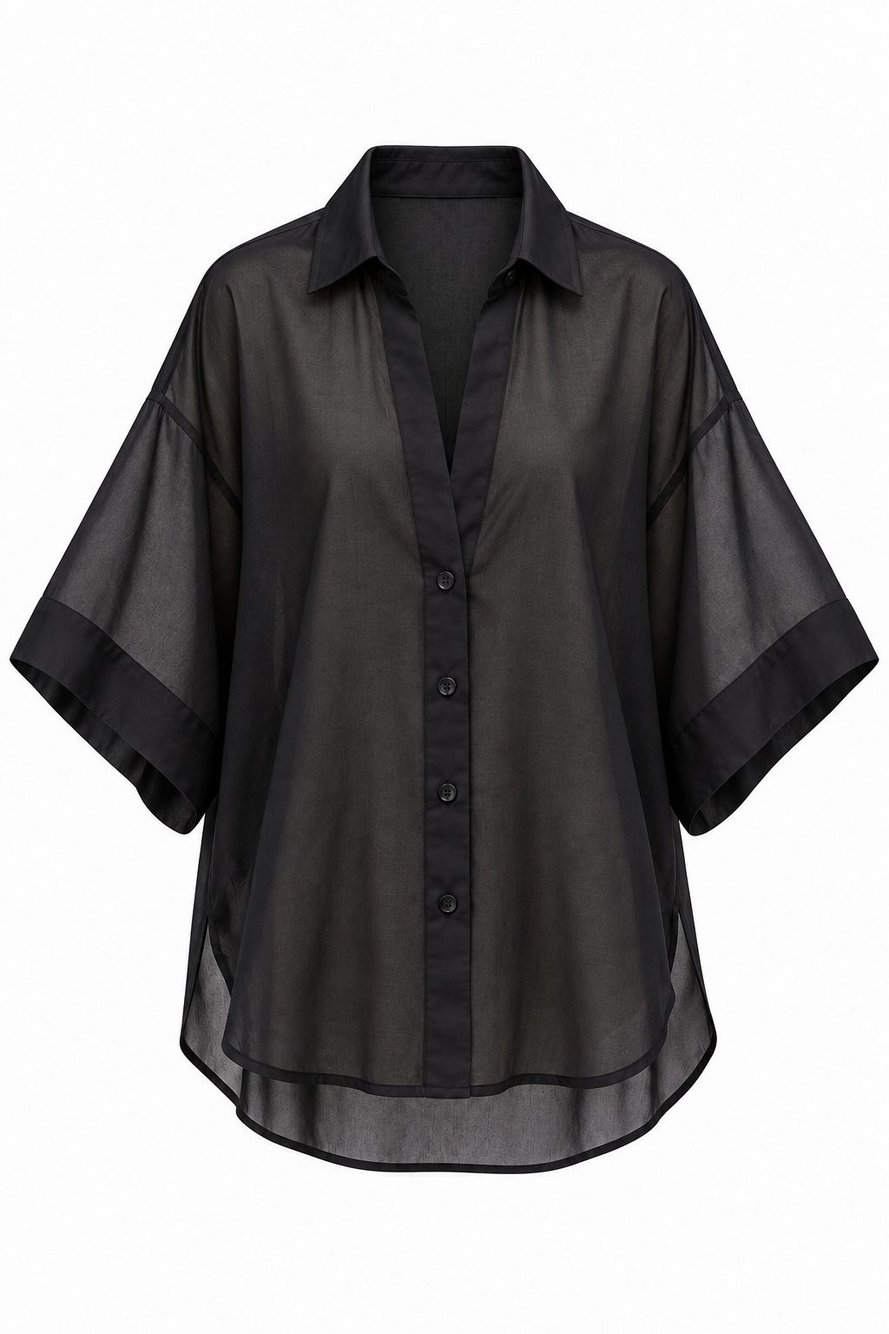
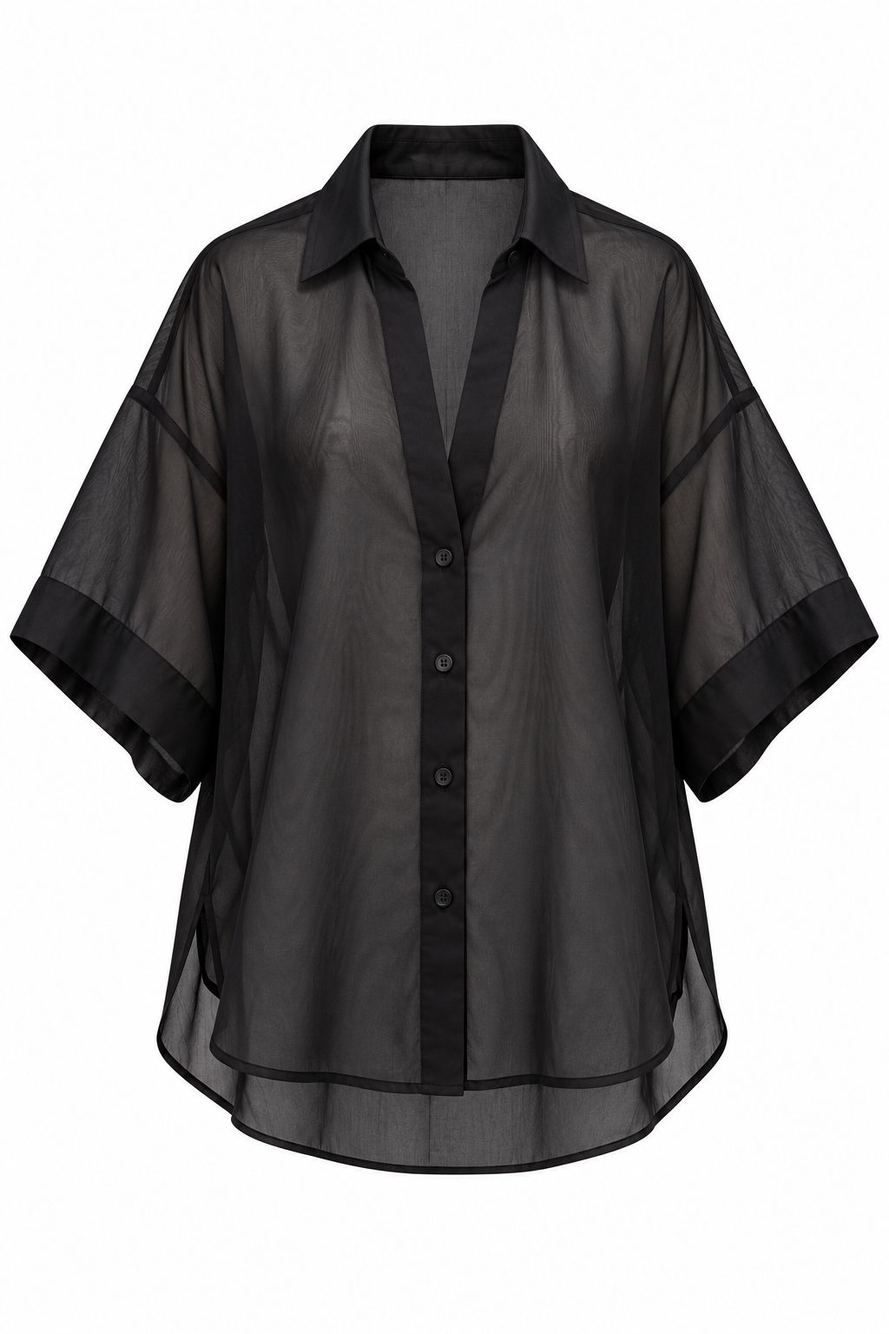
Fix Toma Shirt/Pants color swatches to use flat-lay photos
The burgundy and black swatches for Toma Shirt and Toma Pants were
reusing the Toma Suit's on-model combo photos (tm3/tm4) instead of
showing the actual garment. Add dedicated flat-lay photos for each
piece instead.

New uploads are saved straight to compressed JPEG to keep the images
folder lean going forward.

Claude-Session: https://claude.ai/code/session_01MLsA5webmyPusJuUBWrQT8

diff --git a/index.html b/index.html
@@ -426,7 +426,7 @@ footer{padding:clamp(40px,6vw,72px) clamp(16px,4vw,56px) 28px}
 @media (max-width:860px){.meas{grid-template-columns:1fr;gap:26px}.meas-figs{position:static}.meas-figs svg{max-height:62vh}}
 </style>
 <style id="assets">
-:root{--i-hero:url(images/hero2.jpg);--i-hero3:url(images/hero3.jpg);--i-hero4:url(images/hero4.jpg);--i-hero5:url(images/hero5.jpg);--i-hero6:url(images/hero6.jpg);--i-hero7:url(images/hero7.jpg);--i-hero8:url(images/hero8.jpg);--i-hero9:url(images/hero9.jpg);--i-hero10:url(images/hero10.jpg);--i-hero11:url(images/hero11.jpg);--i-hero12:url(images/hero12.jpg);--i-hero13:url(images/hero13.jpg);--i-jo1:url(images/jo1.jpg);--i-jo2:url(images/jo2.jpg);--i-jo3:url(images/jo3.jpg);--i-jo4:url(images/jo4.jpg);--i-jo5:url(images/jo5.jpg);--i-jo6:url(images/jo6.jpg);--i-jo7:url(images/jo7.jpg);--i-jo8:url(images/jo8.jpg);--i-jo9:url(images/jo9.jpg);--i-jo10:url(images/jo10.jpg);--i-jo11:url(images/jo11.jpg);--i-jo12:url(images/jo12.jpg);--i-jo13:url(images/jo13.jpg);--i-jo14:url(images/jo14.jpg);--i-jo15:url(images/jo15.jpg);--i-jo16:url(images/jo16.jpg);--i-jo17:url(images/jo17.jpg);--i-jo18:url(images/jo18.jpg);--i-jo19:url(images/jo19.jpg);--i-jo20:url(images/jo20.jpg);--i-jo21:url(images/jo21.jpg);--i-jo22:url(images/jo22.jpg);--i-jo23:url(images/jo23.jpg);--i-jo24:url(images/jo24.jpg);--i-jo25:url(images/jo25.jpg);--i-jo26:url(images/jo26.jpg);--i-jo27:url(images/jo27.jpg);--i-jo28:url(images/jo28.jpg);--i-jo29:url(images/jo29.jpg);--i-gk1:url(images/gk1.jpg);--i-gk2:url(images/gk2.jpg);--i-gk3:url(images/gk3.jpg);--i-gk4:url(images/gk4.jpg);--i-gk5:url(images/gk5.jpg);--i-gk6:url(images/gk6.jpg);--i-gk7:url(images/gk7.jpg);--i-gk8:url(images/gk8.jpg);--i-gk9:url(images/gk9.jpg);--i-gk10:url(images/gk10.jpg);--i-gk11:url(images/gk11.jpg);--i-gk12:url(images/gk12.jpg);--i-gk13:url(images/gk13.jpg);--i-gk14:url(images/gk14.jpg);--i-gk15:url(images/gk15.jpg);--i-gs1:url(images/gs1.jpg);--i-gs2:url(images/gs2.jpg);--i-gs3:url(images/gs3.jpg);--i-gs4:url(images/gs4.jpg);--i-gs5:url(images/gs5.jpg);--i-mn1:url(images/mn1.jpg);--i-mn2:url(images/mn2.jpg);--i-mn3:url(images/mn3.jpg);--i-mn4:url(images/mn4.jpg);--i-mn5:url(images/mn5.jpg);--i-mn6:url(images/mn6.jpg);--i-mn7:url(images/mn7.jpg);--i-mn8:url(images/mn8.jpg);--i-mn9:url(images/mn9.jpg);--i-mn10:url(images/mn10.jpg);--i-mn11:url(images/mn11.jpg);--i-mn12:url(images/mn12.jpg);--i-mn13:url(images/mn13.jpg);--i-mn14:url(images/mn14.jpg);--i-mn15:url(images/mn15.jpg);--i-mn16:url(images/mn16.jpg);--i-mn17:url(images/mn17.jpg);--i-mn18:url(images/mn18.jpg);--i-mn19:url(images/mn19.jpg);--i-mn20:url(images/mn20.jpg);--i-dm1:url(images/dm1.jpg);--i-dm2:url(images/dm2.jpg);--i-dm3:url(images/dm3.jpg);--i-dm4:url(images/dm4.jpg);--i-dm5:url(images/dm5.jpg);--i-dm6:url(images/dm6.jpg);--i-dm7:url(images/dm7.jpg);--i-dm8:url(images/dm8.jpg);--i-dm9:url(images/dm9.jpg);--i-dm10:url(images/dm10.jpg);--i-dm11:url(images/dm11.jpg);--i-dm12:url(images/dm12.jpg);--i-dm13:url(images/dm13.jpg);--i-dm14:url(images/dm14.jpg);--i-dm15:url(images/dm15.jpg);--i-dm16:url(images/dm16.jpg);--i-dm17:url(images/dm17.jpg);--i-dm18:url(images/dm18.jpg);--i-dm19:url(images/dm19.jpg);--i-dm20:url(images/dm20.jpg);--i-dm21:url(images/dm21.jpg);--i-dm22:url(images/dm22.jpg);--i-dp1:url(images/dp1.jpg);--i-dp2:url(images/dp2.jpg);--i-dp3:url(images/dp3.jpg);--i-dp4:url(images/dp4.jpg);--i-dp5:url(images/dp5.jpg);--i-dp6:url(images/dp6.jpg);--i-dp7:url(images/dp7.jpg);--i-dp8:url(images/dp8.jpg);--i-dp9:url(images/dp9.jpg);--i-dp10:url(images/dp10.jpg);--i-dp11:url(images/dp11.jpg);--i-dp12:url(images/dp12.jpg);--i-dp13:url(images/dp13.jpg);--i-dp14:url(images/dp14.jpg);--i-dp15:url(images/dp15.jpg);--i-dp16:url(images/dp16.jpg);--i-dp17:url(images/dp17.jpg);--i-dp18:url(images/dp18.jpg);--i-dp19:url(images/dp19.jpg);--i-ds1:url(images/ds1.jpg);--i-gp1:url(images/gp1.jpg);--i-gp2:url(images/gp2.jpg);--i-gp3:url(images/gp3.jpg);--i-gp4:url(images/gp4.jpg);--i-gp5:url(images/gp5.jpg);--i-gp6:url(images/gp6.jpg);--i-gp7:url(images/gp7.jpg);--i-gp8:url(images/gp8.jpg);--i-gp9:url(images/gp9.jpg);--i-gt1:url(images/gt1.jpg);--i-gt2:url(images/gt2.jpg);--i-gt3:url(images/gt3.jpg);--i-gt4:url(images/gt4.jpg);--i-gt5:url(images/gt5.jpg);--i-gt6:url(images/gt6.jpg);--i-gt7:url(images/gt7.jpg);--i-gt8:url(images/gt8.jpg);--i-gt9:url(images/gt9.jpg);--i-lk1:url(images/lk1.jpg);--i-lk2:url(images/lk2.jpg);--i-lk3:url(images/lk3.jpg);--i-lk4:url(images/lk4.jpg);--i-lk5:url(images/lk5.jpg);--i-lk6:url(images/lk6.jpg);--i-lk7:url(images/lk7.jpg);--i-lk8:url(images/lk8.jpg);--i-lk9:url(images/lk9.jpg);--i-lk10:url(images/lk10.jpg);--i-lk11:url(images/lk11.jpg);--i-lk12:url(images/lk12.jpg);--i-lk13:url(images/lk13.jpg);--i-jo30:url(images/jo30.jpg);--i-bb1:url(images/bb1.jpg);--i-bb2:url(images/bb2.jpg);--i-bb3:url(images/bb3.jpg);--i-bb4:url(images/bb4.jpg);--i-bb5:url(images/bb5.jpg);--i-bb7:url(images/bb7.jpg);--i-bb8:url(images/bb8.jpg);--i-kg1:url(images/kg1.jpg);--i-kg2:url(images/kg2.jpg);--i-kg3:url(images/kg3.jpg);--i-kg4:url(images/kg4.jpg);--i-kg5:url(images/kg5.jpg);--i-kg6:url(images/kg6.jpg);--i-kg7:url(images/kg7.jpg);--i-kg8:url(images/kg8.jpg);--i-kgset1:url(images/kgset1.jpg);--i-kgset2:url(images/kgset2.jpg);--i-kgset3:url(images/kgset3.jpg);--i-kl1:url(images/kl1.jpg);--i-kl2:url(images/kl2.jpg);--i-kl3:url(images/kl3.jpg);--i-kl4:url(images/kl4.jpg);--i-kl5:url(images/kl5.jpg);--i-kl6:url(images/kl6.jpg);--i-kl7:url(images/kl7.jpg);--i-kl8:url(images/kl8.jpg);--i-kl9:url(images/kl9.jpg);--i-mrset1:url(images/mrset1.jpg);--i-mrset2:url(images/mrset2.jpg);--i-mrv1:url(images/mrv1.jpg);--i-mrp1:url(images/mrp1.jpg);--i-mrp2:url(images/mrp2.jpg);--i-mrv2:url(images/mrv2.jpg);--i-mrv3:url(images/mrv3.jpg);--i-mrv4:url(images/mrv4.jpg);--i-mrv5:url(images/mrv5.jpg);--i-mrp3:url(images/mrp3.jpg);--i-mrv6:url(images/mrv6.jpg);--i-mrp4:url(images/mrp4.jpg);--i-mrp5:url(images/mrp5.jpg);--i-mrp6:url(images/mrp6.jpg);--i-coconut:url(images/coconut.jpg);--i-boat:url(images/boat.jpg);--i-evening:url(images/evening.jpg);--i-man:url(images/man.jpg);--i-hoian:url(images/hoian.jpg);--i-jungle:url(images/jungle.jpg);--i-red:url(images/red.jpg);--i-pants:url(images/pants.jpg);--i-drink:url(images/drink.jpg);--i-s1:url(images/s1.jpg);--i-s2:url(images/s2.jpg);--i-s3:url(images/s3.jpg);--i-s4:url(images/s4.jpg);--i-s5:url(images/s5.jpg);--i-s6:url(images/s6.jpg);--i-fbanner:url(images/fbanner.jpg);--i-ir1:url(images/ir1.jpg);--i-ir2:url(images/ir2.jpg);--i-ir3:url(images/ir3.jpg);--i-ir4:url(images/ir4.jpg);--i-ir5:url(images/ir5.jpg);--i-ir6:url(images/ir6.jpg);--i-ir7:url(images/ir7.jpg);--i-ir8:url(images/ir8.jpg);--i-ir9:url(images/ir9.jpg);--i-obl0:url(images/obl0.jpg);--i-obl1:url(images/obl1.jpg);--i-obl2:url(images/obl2.jpg);--i-obl3:url(images/obl3.jpg);--i-obl4:url(images/obl4.jpg);--i-ot0:url(images/ot0.jpg);--i-ot1:url(images/ot1.jpg);--i-ot2:url(images/ot2.jpg);--i-ot3:url(images/ot3.jpg);--i-ot4:url(images/ot4.jpg);--i-ot5:url(images/ot5.jpg);--i-rz1:url(images/rz1.jpg);--i-rz2:url(images/rz2.jpg);--i-rz3:url(images/rz3.jpg);--i-rz4:url(images/rz4.jpg);--i-rz5:url(images/rz5.jpg);--i-rz6:url(images/rz6.jpg);--i-rz7:url(images/rz7.jpg);--i-rz8:url(images/rz8.jpg);--i-rz9:url(images/rz9.jpg);--i-rz10:url(images/rz10.jpg);--i-rz11:url(images/rz11.jpg);--i-rz12:url(images/rz12.jpg);--i-os0:url(images/os0.jpg);--i-os1:url(images/os1.jpg);--i-os2:url(images/os2.jpg);--i-lm:url(images/lm.jpg);--i-ld1:url(images/ld1.jpg);--i-ld2:url(images/ld2.jpg);--i-ld3:url(images/ld3.jpg);--i-ld4:url(images/ld4.jpg);--i-ld5:url(images/ld5.jpg);--i-ld6:url(images/ld6.jpg);--i-le4:url(images/le4.jpg);--i-le5:url(images/le5.jpg);--i-le6:url(images/le6.jpg);--i-le7:url(images/le7.jpg);--i-le8:url(images/le8.jpg);--i-le9:url(images/le9.jpg);--i-le10:url(images/le10.jpg);--i-mm:url(images/mm.jpg);--i-mi1:url(images/mi1.jpg);--i-mi2:url(images/mi2.jpg);--i-mi3:url(images/mi3.jpg);--i-dove:url(images/dove.jpg);--i-kd1:url(images/kd1.jpg);--i-kd2:url(images/kd2.jpg);--i-kd3:url(images/kd3.jpg);--i-lm2:url(images/lm2.jpg);--i-lrb1:url(images/lrb1.jpg);--i-lrb2:url(images/lrb2.jpg);--i-lrb3:url(images/lrb3.jpg);--i-lrb4:url(images/lrb4.jpg);--i-lrb5:url(images/lrb5.jpg);--i-lrb6:url(images/lrb6.jpg);--i-lrb7:url(images/lrb7.jpg);--i-lrb8:url(images/lrb8.jpg);--i-lrb9:url(images/lrb9.jpg);--i-lrb10:url(images/lrb10.jpg);--i-lrb11:url(images/lrb11.jpg);--i-ys1:url(images/ys1.jpg);--i-ys2:url(images/ys2.jpg);--i-ys3:url(images/ys3.jpg);--i-ys4:url(images/ys4.jpg);--i-ys5:url(images/ys5.jpg);--i-ys6:url(images/ys6.jpg);--i-ys7:url(images/ys7.jpg);--i-ys8:url(images/ys8.jpg);--i-ys9:url(images/ys9.jpg);--i-ys10:url(images/ys10.jpg);--i-ys11:url(images/ys11.jpg);--i-ys12:url(images/ys12.jpg);--i-ys13:url(images/ys13.jpg);--i-yj1:url(images/yj1.jpg);--i-yj2:url(images/yj2.jpg);--i-yj3:url(images/yj3.jpg);--i-yj4:url(images/yj4.jpg);--i-yj5:url(images/yj5.jpg);--i-yj6:url(images/yj6.jpg);--i-yj7:url(images/yj7.jpg);--i-yj8:url(images/yj8.jpg);--i-yj9:url(images/yj9.jpg);--i-yj10:url(images/yj10.jpg);--i-ysd1:url(images/ysd1.jpg);--i-ysd2:url(images/ysd2.jpg);--i-ysd3:url(images/ysd3.jpg);--i-ysd4:url(images/ysd4.jpg);--i-ysd5:url(images/ysd5.jpg);--i-ysd6:url(images/ysd6.jpg);--i-ysd7:url(images/ysd7.jpg);--i-ysd8:url(images/ysd8.jpg);--i-ysd9:url(images/ysd9.jpg);--i-ysd10:url(images/ysd10.jpg);--i-ysd11:url(images/ysd11.jpg);--i-ysd12:url(images/ysd12.jpg);--i-ysd13:url(images/ysd13.jpg);--i-ysd14:url(images/ysd14.jpg);--i-ysd15:url(images/ysd15.jpg);--i-ysd16:url(images/ysd16.jpg);--i-ysd17:url(images/ysd17.jpg);--i-ys14:url(images/ys14.jpg);--i-ys15:url(images/ys15.jpg);--i-ys16:url(images/ys16.jpg);--i-ys17:url(images/ys17.jpg);--i-ys18:url(images/ys18.jpg);--i-ys19:url(images/ys19.jpg);--i-yat1:url(images/yat1.jpg);--i-yat2:url(images/yat2.jpg);--i-yat3:url(images/yat3.jpg);--i-yat4:url(images/yat4.jpg);--i-yat5:url(images/yat5.jpg);--i-yat6:url(images/yat6.jpg);--i-yat7:url(images/yat7.jpg);--i-yat8:url(images/yat8.jpg);--i-yat9:url(images/yat9.jpg);--i-yat10:url(images/yat10.jpg);--i-yat11:url(images/yat11.jpg);--i-yj11:url(images/yj11.jpg);--i-yj12:url(images/yj12.jpg);--i-yj13:url(images/yj13.jpg);--i-irt1:url(images/irt1.jpg);--i-irt2:url(images/irt2.jpg);--i-irt3:url(images/irt3.jpg);--i-irt4:url(images/irt4.jpg);--i-irt5:url(images/irt5.jpg);--i-lt6:url(images/lt6.jpg);--i-lt7:url(images/lt7.jpg);--i-lt8:url(images/lt8.jpg);--i-lt9:url(images/lt9.jpg);--i-lt10:url(images/lt10.jpg);--i-lt11:url(images/lt11.jpg);--i-lt12:url(images/lt12.jpg);--i-le1:url(images/le1.jpg);--i-le2:url(images/le2.jpg);--i-le3:url(images/le3.jpg);--i-ol1:url(images/ol1.jpg);--i-ol2:url(images/ol2.jpg);--i-ol3:url(images/ol3.jpg);--i-ol4:url(images/ol4.jpg);--i-vp1:url(images/vp1.jpg);--i-vp2:url(images/vp2.jpg);--i-vp3:url(images/vp3.jpg);--i-vb1:url(images/vb1.jpg);--i-vb2:url(images/vb2.jpg);--i-vb3:url(images/vb3.jpg);--i-vb4:url(images/vb4.jpg);--i-vb5:url(images/vb5.jpg);--i-ss1:url(images/ss1.jpg);--i-ss2:url(images/ss2.jpg);--i-ss3:url(images/ss3.jpg);--i-ss4:url(images/ss4.jpg);--i-ss5:url(images/ss5.jpg);--i-sk1:url(images/sk1.jpg);--i-sk2:url(images/sk2.jpg);--i-sk3:url(images/sk3.jpg);--i-sk4:url(images/sk4.jpg);--i-md1:url(images/md1.jpg);--i-md2:url(images/md2.jpg);--i-md3:url(images/md3.jpg);--i-kv1:url(images/kv1.jpg);--i-kv2:url(images/kv2.jpg);--i-kv3:url(images/kv3.jpg);--i-kv4:url(images/kv4.jpg);--i-kv5:url(images/kv5.jpg);--i-kv6:url(images/kv6.jpg);--i-kr1:url(images/kr1.jpg);--i-kr2:url(images/kr2.jpg);--i-kr3:url(images/kr3.jpg);--i-kr4:url(images/kr4.jpg);--i-kr5:url(images/kr5.jpg);--i-kr6:url(images/kr6.jpg);--i-kr7:url(images/kr7.jpg);--i-kr8:url(images/kr8.jpg);--i-kr9:url(images/kr9.jpg);--i-kr10:url(images/kr10.jpg);--i-vr1:url(images/vr1.jpg);--i-vr2:url(images/vr2.jpg);--i-vr3:url(images/vr3.jpg);--i-vr4:url(images/vr4.jpg);--i-vr5:url(images/vr5.jpg);--i-vr6:url(images/vr6.jpg);--i-vr7:url(images/vr7.jpg);--i-vr8:url(images/vr8.jpg);--i-vr9:url(images/vr9.jpg);--i-vr10:url(images/vr10.jpg);--i-vr11:url(images/vr11.jpg);--i-vr12:url(images/vr12.jpg);--i-vr13:url(images/vr13.jpg);--i-vr14:url(images/vr14.jpg);--i-tm1:url(images/tm1.jpg);--i-tm2:url(images/tm2.jpg);--i-tm3:url(images/tm3.jpg);--i-tm4:url(images/tm4.jpg);--i-tm5:url(images/tm5.jpg);--i-ts1:url(images/ts1.jpg);--i-ts2:url(images/ts2.jpg);--i-ts3:url(images/ts3.jpg);--i-ts4:url(images/ts4.jpg);--i-ts5:url(images/ts5.jpg);--i-ts6:url(images/ts6.jpg);--i-ts7:url(images/ts7.jpg);--i-tp1:url(images/tp1.jpg);--i-tp2:url(images/tp2.jpg);--i-an1:url(images/an1.jpg);--i-an2:url(images/an2.jpg);--i-an3:url(images/an3.jpg);--i-an4:url(images/an4.jpg);--i-an5:url(images/an5.jpg);--i-an6:url(images/an6.jpg);--i-an7:url(images/an7.jpg);--i-an8:url(images/an8.jpg);--i-an9:url(images/an9.jpg);--i-an10:url(images/an10.jpg);--i-an11:url(images/an11.jpg);--i-anv1:url(images/anv1.jpg);--i-anv2:url(images/anv2.jpg);--i-anv3:url(images/anv3.jpg);--i-cf1:url(images/cf1.jpg);--i-cf2:url(images/cf2.jpg);--i-cf3:url(images/cf3.jpg);--i-cf4:url(images/cf4.jpg);--i-cf5:url(images/cf5.jpg);--i-ov01:url(images/ov01.jpg);--i-ov02:url(images/ov02.jpg);--i-ov03:url(images/ov03.jpg);--i-ov04:url(images/ov04.jpg);--i-ov05:url(images/ov05.jpg);--i-ov06:url(images/ov06.jpg);--i-ov07:url(images/ov07.jpg);--i-ov08:url(images/ov08.jpg);--i-ov09:url(images/ov09.jpg);--i-ov10:url(images/ov10.jpg);--i-ov11:url(images/ov11.jpg);--i-ov12:url(images/ov12.jpg);--i-ov13:url(images/ov13.jpg);--i-ov14:url(images/ov14.jpg);--i-ov15:url(images/ov15.jpg);--i-ov16:url(images/ov16.jpg);--i-ov17:url(images/ov17.jpg);--i-ov18:url(images/ov18.jpg);--i-ov19:url(images/ov19.jpg);--i-ov20:url(images/ov20.jpg);--i-vc01:url(images/vc01.jpg);--i-vc02:url(images/vc02.jpg);--i-vc03:url(images/vc03.jpg);--i-vc04:url(images/vc04.jpg);--i-vc05:url(images/vc05.jpg);--i-vc06:url(images/vc06.jpg);--i-vc07:url(images/vc07.jpg);--i-vc08:url(images/vc08.jpg);--i-vc09:url(images/vc09.jpg);--i-vc10:url(images/vc10.jpg);--i-vc11:url(images/vc11.jpg);--i-vc12:url(images/vc12.jpg);--i-vc13:url(images/vc13.jpg);--i-vc14:url(images/vc14.jpg);--i-vc15:url(images/vc15.jpg);--i-vc16:url(images/vc16.jpg);--i-sv1:url(images/sv1.jpg);--i-sv2:url(images/sv2.jpg);--i-sv3:url(images/sv3.jpg);--i-sv4:url(images/sv4.jpg);--i-sv5:url(images/sv5.jpg);--i-sv6:url(images/sv6.jpg);--i-sv7:url(images/sv7.jpg);--i-sv8:url(images/sv8.jpg);--i-sv9:url(images/sv9.jpg);--i-sv10:url(images/sv10.jpg);--i-sv11:url(images/sv11.jpg);--i-sv12:url(images/sv12.jpg);--i-sv13:url(images/sv13.jpg);--i-sv14:url(images/sv14.jpg);--i-mh1:url(images/mh1.jpg);--i-mh2:url(images/mh2.jpg);--i-mh3:url(images/mh3.jpg);--i-mh4:url(images/mh4.jpg);--i-mh5:url(images/mh5.jpg);--i-mh6:url(images/mh6.jpg);--i-mh7:url(images/mh7.jpg);--i-mh8:url(images/mh8.jpg);--i-mh9:url(images/mh9.jpg);--i-mh10:url(images/mh10.jpg);--i-mh11:url(images/mh11.jpg);--i-mh12:url(images/mh12.jpg);--i-mh13:url(images/mh13.jpg);--i-mh14:url(images/mh14.jpg);--i-mh15:url(images/mh15.jpg);--i-mh16:url(images/mh16.jpg);--i-rs1:url(images/rs1.jpg);--i-rs2:url(images/rs2.jpg);--i-rs17:url(images/rs17.jpg);--i-rs18:url(images/rs18.jpg);--i-rs19:url(images/rs19.jpg);--i-rs20:url(images/rs20.jpg);--i-rs21:url(images/rs21.jpg);--i-rs5:url(images/rs5.jpg);--i-rs6:url(images/rs6.jpg);--i-rs7:url(images/rs7.jpg);--i-rs8:url(images/rs8.jpg);--i-rs9:url(images/rs9.jpg);--i-rs10:url(images/rs10.jpg);--i-rs11:url(images/rs11.jpg);--i-rs12:url(images/rs12.jpg);--i-rs13:url(images/rs13.jpg);--i-rs14:url(images/rs14.jpg);--i-rs15:url(images/rs15.jpg);--i-rs16:url(images/rs16.jpg);--i-ag1:url(images/ag1.jpg);--i-ag2:url(images/ag2.jpg);--i-ag3:url(images/ag3.jpg);--i-ag4:url(images/ag4.jpg);--i-ag5:url(images/ag5.jpg);--i-ag6:url(images/ag6.jpg);--i-ag7:url(images/ag7.jpg);--i-ag8:url(images/ag8.jpg);--i-ag9:url(images/ag9.jpg);--i-ag10:url(images/ag10.jpg);--i-ag11:url(images/ag11.jpg);--i-ag12:url(images/ag12.jpg);--i-ag13:url(images/ag13.jpg);--i-ag14:url(images/ag14.jpg);--i-ag15:url(images/ag15.jpg);--i-ag16:url(images/ag16.jpg);--i-ag17:url(images/ag17.jpg);--i-ag18:url(images/ag18.jpg);--i-ag19:url(images/ag19.jpg);--i-ag20:url(images/ag20.jpg);--i-ag21:url(images/ag21.jpg);--i-ag22:url(images/ag22.jpg);--i-ag23:url(images/ag23.jpg);--i-ag24:url(images/ag24.jpg);--i-ag25:url(images/ag25.jpg);--i-fab1:url(images/fab1.jpg);--i-fab2:url(images/fab2.jpg);--i-fab3:url(images/fab3.jpg);--i-fab4:url(images/fab4.jpg);--i-fab5:url(images/fab5.jpg);--i-fab6:url(images/fab6.jpg);--i-fab7:url(images/fab7.jpg);--i-fab8:url(images/fab8.jpg);--i-fab9:url(images/fab9.jpg);--i-fab10:url(images/fab10.jpg);--i-fab11:url(images/fab11.jpg);--i-fab12:url(images/fab12.jpg);--i-fab13:url(images/fab13.jpg);--i-fab14:url(images/fab14.jpg);--i-fab15:url(images/fab15.jpg);--i-fab16:url(images/fab16.jpg);--i-fab17:url(images/fab17.jpg);--i-fab18:url(images/fab18.jpg);--i-fab19:url(images/fab19.jpg);--i-fab20:url(images/fab20.jpg);--i-fab21:url(images/fab21.jpg);--i-fab22:url(images/fab22.jpg);--i-fab23:url(images/fab23.jpg);--i-fab24:url(images/fab24.jpg);--i-fab25:url(images/fab25.jpg);--i-fab26:url(images/fab26.jpg);--i-fab27:url(images/fab27.jpg);--i-fab28:url(images/fab28.jpg);--i-fab29:url(images/fab29.jpg);--i-fab30:url(images/fab30.jpg);--i-fab31:url(images/fab31.jpg);--i-fab32:url(images/fab32.jpg);--i-fab33:url(images/fab33.jpg);--i-fab34:url(images/fab34.jpg);--i-fab35:url(images/fab35.jpg);--i-fab36:url(images/fab36.jpg);--i-fab37:url(images/fab37.jpg);--i-fab38:url(images/fab38.jpg);--i-fab39:url(images/fab39.jpg);--i-fab40:url(images/fab40.jpg);--i-fab41:url(images/fab41.jpg);--i-fab42:url(images/fab42.jpg);--i-fab43:url(images/fab43.jpg);--i-fab44:url(images/fab44.jpg);--i-fab45:url(images/fab45.jpg);--i-fab46:url(images/fab46.jpg);--i-fab47:url(images/fab47.jpg);--i-fab48:url(images/fab48.jpg);--i-fab49:url(images/fab49.jpg);--i-fab50:url(images/fab50.jpg);--i-fab51:url(images/fab51.jpg);--i-fab52:url(images/fab52.jpg);--i-fab53:url(images/fab53.jpg);--i-fab54:url(images/fab54.jpg);--i-fab55:url(images/fab55.jpg);--i-fab56:url(images/fab56.jpg);--i-fab57:url(images/fab57.jpg);--i-fab58:url(images/fab58.jpg);--i-fab59:url(images/fab59.jpg);--i-fab60:url(images/fab60.jpg);--i-fab61:url(images/fab61.jpg);--i-fab62:url(images/fab62.jpg);--i-fab63:url(images/fab63.jpg);--i-fab64:url(images/fab64.jpg);--i-fab65:url(images/fab65.jpg);--i-fab66:url(images/fab66.jpg);--i-fab67:url(images/fab67.jpg);--i-fab68:url(images/fab68.jpg);--i-fab69:url(images/fab69.jpg);--i-fab70:url(images/fab70.jpg);--i-fab71:url(images/fab71.jpg);--i-fab72:url(images/fab72.jpg);--i-fab73:url(images/fab73.jpg);--i-fab74:url(images/fab74.jpg);--i-fab75:url(images/fab75.jpg);--i-fab76:url(images/fab76.jpg);--i-fab77:url(images/fab77.jpg);--i-fab78:url(images/fab78.jpg);--i-fab79:url(images/fab79.jpg);--i-fab80:url(images/fab80.jpg);--i-fab81:url(images/fab81.jpg);--i-fab82:url(images/fab82.jpg);--i-fab83:url(images/fab83.jpg);--i-fab84:url(images/fab84.jpg);--i-fab85:url(images/fab85.jpg);--i-fab86:url(images/fab86.jpg);--i-fab87:url(images/fab87.jpg);--i-fab88:url(images/fab88.jpg);--i-fab89:url(images/fab89.jpg);--i-fab90:url(images/fab90.jpg);--i-fab91:url(images/fab91.jpg);--i-fab92:url(images/fab92.jpg);--i-fab93:url(images/fab93.jpg);--i-fab94:url(images/fab94.jpg);--i-fab95:url(images/fab95.jpg);--i-fab96:url(images/fab96.jpg);--i-fab97:url(images/fab97.jpg);--i-fab98:url(images/fab98.jpg);--i-fab99:url(images/fab99.jpg);--i-fab100:url(images/fab100.jpg);--i-fab101:url(images/fab101.jpg);--i-fab102:url(images/fab102.jpg);--i-fab103:url(images/fab103.jpg);--i-fab104:url(images/fab104.jpg);--i-fab105:url(images/fab105.jpg);--i-fab106:url(images/fab106.jpg);--i-fab107:url(images/fab107.jpg);--i-fab108:url(images/fab108.jpg);--i-fab109:url(images/fab109.jpg);--i-fab110:url(images/fab110.jpg);--i-fab111:url(images/fab111.jpg);--i-fab112:url(images/fab112.jpg);--i-fab113:url(images/fab113.jpg);--i-fab114:url(images/fab114.jpg);--i-fab115:url(images/fab115.jpg);--i-ms1:url(images/ms1.jpg);--i-ms2:url(images/ms2.jpg);--i-ms3:url(images/ms3.jpg);--i-ms4:url(images/ms4.jpg);--i-ms5:url(images/ms5.jpg);--i-ms6:url(images/ms6.jpg);--i-ms7:url(images/ms7.jpg);--i-ms8:url(images/ms8.jpg);--i-ms9:url(images/ms9.jpg);--i-ms10:url(images/ms10.jpg);--i-ms11:url(images/ms11.jpg);--i-ms12:url(images/ms12.jpg);--i-ms13:url(images/ms13.jpg);--i-ms14:url(images/ms14.jpg);--i-ms15:url(images/ms15.jpg);--i-ms16:url(images/ms16.jpg);--i-ms17:url(images/ms17.jpg);--i-ms18:url(images/ms18.jpg);--i-ms19:url(images/ms19.jpg);--i-ms20:url(images/ms20.jpg);--i-ms21:url(images/ms21.jpg);--l-word:url(images/logo-word.png);--l-mono:url(images/logo-mono.png);}
+:root{--i-hero:url(images/hero2.jpg);--i-hero3:url(images/hero3.jpg);--i-hero4:url(images/hero4.jpg);--i-hero5:url(images/hero5.jpg);--i-hero6:url(images/hero6.jpg);--i-hero7:url(images/hero7.jpg);--i-hero8:url(images/hero8.jpg);--i-hero9:url(images/hero9.jpg);--i-hero10:url(images/hero10.jpg);--i-hero11:url(images/hero11.jpg);--i-hero12:url(images/hero12.jpg);--i-hero13:url(images/hero13.jpg);--i-jo1:url(images/jo1.jpg);--i-jo2:url(images/jo2.jpg);--i-jo3:url(images/jo3.jpg);--i-jo4:url(images/jo4.jpg);--i-jo5:url(images/jo5.jpg);--i-jo6:url(images/jo6.jpg);--i-jo7:url(images/jo7.jpg);--i-jo8:url(images/jo8.jpg);--i-jo9:url(images/jo9.jpg);--i-jo10:url(images/jo10.jpg);--i-jo11:url(images/jo11.jpg);--i-jo12:url(images/jo12.jpg);--i-jo13:url(images/jo13.jpg);--i-jo14:url(images/jo14.jpg);--i-jo15:url(images/jo15.jpg);--i-jo16:url(images/jo16.jpg);--i-jo17:url(images/jo17.jpg);--i-jo18:url(images/jo18.jpg);--i-jo19:url(images/jo19.jpg);--i-jo20:url(images/jo20.jpg);--i-jo21:url(images/jo21.jpg);--i-jo22:url(images/jo22.jpg);--i-jo23:url(images/jo23.jpg);--i-jo24:url(images/jo24.jpg);--i-jo25:url(images/jo25.jpg);--i-jo26:url(images/jo26.jpg);--i-jo27:url(images/jo27.jpg);--i-jo28:url(images/jo28.jpg);--i-jo29:url(images/jo29.jpg);--i-gk1:url(images/gk1.jpg);--i-gk2:url(images/gk2.jpg);--i-gk3:url(images/gk3.jpg);--i-gk4:url(images/gk4.jpg);--i-gk5:url(images/gk5.jpg);--i-gk6:url(images/gk6.jpg);--i-gk7:url(images/gk7.jpg);--i-gk8:url(images/gk8.jpg);--i-gk9:url(images/gk9.jpg);--i-gk10:url(images/gk10.jpg);--i-gk11:url(images/gk11.jpg);--i-gk12:url(images/gk12.jpg);--i-gk13:url(images/gk13.jpg);--i-gk14:url(images/gk14.jpg);--i-gk15:url(images/gk15.jpg);--i-gs1:url(images/gs1.jpg);--i-gs2:url(images/gs2.jpg);--i-gs3:url(images/gs3.jpg);--i-gs4:url(images/gs4.jpg);--i-gs5:url(images/gs5.jpg);--i-mn1:url(images/mn1.jpg);--i-mn2:url(images/mn2.jpg);--i-mn3:url(images/mn3.jpg);--i-mn4:url(images/mn4.jpg);--i-mn5:url(images/mn5.jpg);--i-mn6:url(images/mn6.jpg);--i-mn7:url(images/mn7.jpg);--i-mn8:url(images/mn8.jpg);--i-mn9:url(images/mn9.jpg);--i-mn10:url(images/mn10.jpg);--i-mn11:url(images/mn11.jpg);--i-mn12:url(images/mn12.jpg);--i-mn13:url(images/mn13.jpg);--i-mn14:url(images/mn14.jpg);--i-mn15:url(images/mn15.jpg);--i-mn16:url(images/mn16.jpg);--i-mn17:url(images/mn17.jpg);--i-mn18:url(images/mn18.jpg);--i-mn19:url(images/mn19.jpg);--i-mn20:url(images/mn20.jpg);--i-dm1:url(images/dm1.jpg);--i-dm2:url(images/dm2.jpg);--i-dm3:url(images/dm3.jpg);--i-dm4:url(images/dm4.jpg);--i-dm5:url(images/dm5.jpg);--i-dm6:url(images/dm6.jpg);--i-dm7:url(images/dm7.jpg);--i-dm8:url(images/dm8.jpg);--i-dm9:url(images/dm9.jpg);--i-dm10:url(images/dm10.jpg);--i-dm11:url(images/dm11.jpg);--i-dm12:url(images/dm12.jpg);--i-dm13:url(images/dm13.jpg);--i-dm14:url(images/dm14.jpg);--i-dm15:url(images/dm15.jpg);--i-dm16:url(images/dm16.jpg);--i-dm17:url(images/dm17.jpg);--i-dm18:url(images/dm18.jpg);--i-dm19:url(images/dm19.jpg);--i-dm20:url(images/dm20.jpg);--i-dm21:url(images/dm21.jpg);--i-dm22:url(images/dm22.jpg);--i-dp1:url(images/dp1.jpg);--i-dp2:url(images/dp2.jpg);--i-dp3:url(images/dp3.jpg);--i-dp4:url(images/dp4.jpg);--i-dp5:url(images/dp5.jpg);--i-dp6:url(images/dp6.jpg);--i-dp7:url(images/dp7.jpg);--i-dp8:url(images/dp8.jpg);--i-dp9:url(images/dp9.jpg);--i-dp10:url(images/dp10.jpg);--i-dp11:url(images/dp11.jpg);--i-dp12:url(images/dp12.jpg);--i-dp13:url(images/dp13.jpg);--i-dp14:url(images/dp14.jpg);--i-dp15:url(images/dp15.jpg);--i-dp16:url(images/dp16.jpg);--i-dp17:url(images/dp17.jpg);--i-dp18:url(images/dp18.jpg);--i-dp19:url(images/dp19.jpg);--i-ds1:url(images/ds1.jpg);--i-gp1:url(images/gp1.jpg);--i-gp2:url(images/gp2.jpg);--i-gp3:url(images/gp3.jpg);--i-gp4:url(images/gp4.jpg);--i-gp5:url(images/gp5.jpg);--i-gp6:url(images/gp6.jpg);--i-gp7:url(images/gp7.jpg);--i-gp8:url(images/gp8.jpg);--i-gp9:url(images/gp9.jpg);--i-gt1:url(images/gt1.jpg);--i-gt2:url(images/gt2.jpg);--i-gt3:url(images/gt3.jpg);--i-gt4:url(images/gt4.jpg);--i-gt5:url(images/gt5.jpg);--i-gt6:url(images/gt6.jpg);--i-gt7:url(images/gt7.jpg);--i-gt8:url(images/gt8.jpg);--i-gt9:url(images/gt9.jpg);--i-lk1:url(images/lk1.jpg);--i-lk2:url(images/lk2.jpg);--i-lk3:url(images/lk3.jpg);--i-lk4:url(images/lk4.jpg);--i-lk5:url(images/lk5.jpg);--i-lk6:url(images/lk6.jpg);--i-lk7:url(images/lk7.jpg);--i-lk8:url(images/lk8.jpg);--i-lk9:url(images/lk9.jpg);--i-lk10:url(images/lk10.jpg);--i-lk11:url(images/lk11.jpg);--i-lk12:url(images/lk12.jpg);--i-lk13:url(images/lk13.jpg);--i-jo30:url(images/jo30.jpg);--i-bb1:url(images/bb1.jpg);--i-bb2:url(images/bb2.jpg);--i-bb3:url(images/bb3.jpg);--i-bb4:url(images/bb4.jpg);--i-bb5:url(images/bb5.jpg);--i-bb7:url(images/bb7.jpg);--i-bb8:url(images/bb8.jpg);--i-kg1:url(images/kg1.jpg);--i-kg2:url(images/kg2.jpg);--i-kg3:url(images/kg3.jpg);--i-kg4:url(images/kg4.jpg);--i-kg5:url(images/kg5.jpg);--i-kg6:url(images/kg6.jpg);--i-kg7:url(images/kg7.jpg);--i-kg8:url(images/kg8.jpg);--i-kgset1:url(images/kgset1.jpg);--i-kgset2:url(images/kgset2.jpg);--i-kgset3:url(images/kgset3.jpg);--i-kl1:url(images/kl1.jpg);--i-kl2:url(images/kl2.jpg);--i-kl3:url(images/kl3.jpg);--i-kl4:url(images/kl4.jpg);--i-kl5:url(images/kl5.jpg);--i-kl6:url(images/kl6.jpg);--i-kl7:url(images/kl7.jpg);--i-kl8:url(images/kl8.jpg);--i-kl9:url(images/kl9.jpg);--i-mrset1:url(images/mrset1.jpg);--i-mrset2:url(images/mrset2.jpg);--i-mrv1:url(images/mrv1.jpg);--i-mrp1:url(images/mrp1.jpg);--i-mrp2:url(images/mrp2.jpg);--i-mrv2:url(images/mrv2.jpg);--i-mrv3:url(images/mrv3.jpg);--i-mrv4:url(images/mrv4.jpg);--i-mrv5:url(images/mrv5.jpg);--i-mrp3:url(images/mrp3.jpg);--i-mrv6:url(images/mrv6.jpg);--i-mrp4:url(images/mrp4.jpg);--i-mrp5:url(images/mrp5.jpg);--i-mrp6:url(images/mrp6.jpg);--i-coconut:url(images/coconut.jpg);--i-boat:url(images/boat.jpg);--i-evening:url(images/evening.jpg);--i-man:url(images/man.jpg);--i-hoian:url(images/hoian.jpg);--i-jungle:url(images/jungle.jpg);--i-red:url(images/red.jpg);--i-pants:url(images/pants.jpg);--i-drink:url(images/drink.jpg);--i-s1:url(images/s1.jpg);--i-s2:url(images/s2.jpg);--i-s3:url(images/s3.jpg);--i-s4:url(images/s4.jpg);--i-s5:url(images/s5.jpg);--i-s6:url(images/s6.jpg);--i-fbanner:url(images/fbanner.jpg);--i-ir1:url(images/ir1.jpg);--i-ir2:url(images/ir2.jpg);--i-ir3:url(images/ir3.jpg);--i-ir4:url(images/ir4.jpg);--i-ir5:url(images/ir5.jpg);--i-ir6:url(images/ir6.jpg);--i-ir7:url(images/ir7.jpg);--i-ir8:url(images/ir8.jpg);--i-ir9:url(images/ir9.jpg);--i-obl0:url(images/obl0.jpg);--i-obl1:url(images/obl1.jpg);--i-obl2:url(images/obl2.jpg);--i-obl3:url(images/obl3.jpg);--i-obl4:url(images/obl4.jpg);--i-ot0:url(images/ot0.jpg);--i-ot1:url(images/ot1.jpg);--i-ot2:url(images/ot2.jpg);--i-ot3:url(images/ot3.jpg);--i-ot4:url(images/ot4.jpg);--i-ot5:url(images/ot5.jpg);--i-rz1:url(images/rz1.jpg);--i-rz2:url(images/rz2.jpg);--i-rz3:url(images/rz3.jpg);--i-rz4:url(images/rz4.jpg);--i-rz5:url(images/rz5.jpg);--i-rz6:url(images/rz6.jpg);--i-rz7:url(images/rz7.jpg);--i-rz8:url(images/rz8.jpg);--i-rz9:url(images/rz9.jpg);--i-rz10:url(images/rz10.jpg);--i-rz11:url(images/rz11.jpg);--i-rz12:url(images/rz12.jpg);--i-os0:url(images/os0.jpg);--i-os1:url(images/os1.jpg);--i-os2:url(images/os2.jpg);--i-lm:url(images/lm.jpg);--i-ld1:url(images/ld1.jpg);--i-ld2:url(images/ld2.jpg);--i-ld3:url(images/ld3.jpg);--i-ld4:url(images/ld4.jpg);--i-ld5:url(images/ld5.jpg);--i-ld6:url(images/ld6.jpg);--i-le4:url(images/le4.jpg);--i-le5:url(images/le5.jpg);--i-le6:url(images/le6.jpg);--i-le7:url(images/le7.jpg);--i-le8:url(images/le8.jpg);--i-le9:url(images/le9.jpg);--i-le10:url(images/le10.jpg);--i-mm:url(images/mm.jpg);--i-mi1:url(images/mi1.jpg);--i-mi2:url(images/mi2.jpg);--i-mi3:url(images/mi3.jpg);--i-dove:url(images/dove.jpg);--i-kd1:url(images/kd1.jpg);--i-kd2:url(images/kd2.jpg);--i-kd3:url(images/kd3.jpg);--i-lm2:url(images/lm2.jpg);--i-lrb1:url(images/lrb1.jpg);--i-lrb2:url(images/lrb2.jpg);--i-lrb3:url(images/lrb3.jpg);--i-lrb4:url(images/lrb4.jpg);--i-lrb5:url(images/lrb5.jpg);--i-lrb6:url(images/lrb6.jpg);--i-lrb7:url(images/lrb7.jpg);--i-lrb8:url(images/lrb8.jpg);--i-lrb9:url(images/lrb9.jpg);--i-lrb10:url(images/lrb10.jpg);--i-lrb11:url(images/lrb11.jpg);--i-ys1:url(images/ys1.jpg);--i-ys2:url(images/ys2.jpg);--i-ys3:url(images/ys3.jpg);--i-ys4:url(images/ys4.jpg);--i-ys5:url(images/ys5.jpg);--i-ys6:url(images/ys6.jpg);--i-ys7:url(images/ys7.jpg);--i-ys8:url(images/ys8.jpg);--i-ys9:url(images/ys9.jpg);--i-ys10:url(images/ys10.jpg);--i-ys11:url(images/ys11.jpg);--i-ys12:url(images/ys12.jpg);--i-ys13:url(images/ys13.jpg);--i-yj1:url(images/yj1.jpg);--i-yj2:url(images/yj2.jpg);--i-yj3:url(images/yj3.jpg);--i-yj4:url(images/yj4.jpg);--i-yj5:url(images/yj5.jpg);--i-yj6:url(images/yj6.jpg);--i-yj7:url(images/yj7.jpg);--i-yj8:url(images/yj8.jpg);--i-yj9:url(images/yj9.jpg);--i-yj10:url(images/yj10.jpg);--i-ysd1:url(images/ysd1.jpg);--i-ysd2:url(images/ysd2.jpg);--i-ysd3:url(images/ysd3.jpg);--i-ysd4:url(images/ysd4.jpg);--i-ysd5:url(images/ysd5.jpg);--i-ysd6:url(images/ysd6.jpg);--i-ysd7:url(images/ysd7.jpg);--i-ysd8:url(images/ysd8.jpg);--i-ysd9:url(images/ysd9.jpg);--i-ysd10:url(images/ysd10.jpg);--i-ysd11:url(images/ysd11.jpg);--i-ysd12:url(images/ysd12.jpg);--i-ysd13:url(images/ysd13.jpg);--i-ysd14:url(images/ysd14.jpg);--i-ysd15:url(images/ysd15.jpg);--i-ysd16:url(images/ysd16.jpg);--i-ysd17:url(images/ysd17.jpg);--i-ys14:url(images/ys14.jpg);--i-ys15:url(images/ys15.jpg);--i-ys16:url(images/ys16.jpg);--i-ys17:url(images/ys17.jpg);--i-ys18:url(images/ys18.jpg);--i-ys19:url(images/ys19.jpg);--i-yat1:url(images/yat1.jpg);--i-yat2:url(images/yat2.jpg);--i-yat3:url(images/yat3.jpg);--i-yat4:url(images/yat4.jpg);--i-yat5:url(images/yat5.jpg);--i-yat6:url(images/yat6.jpg);--i-yat7:url(images/yat7.jpg);--i-yat8:url(images/yat8.jpg);--i-yat9:url(images/yat9.jpg);--i-yat10:url(images/yat10.jpg);--i-yat11:url(images/yat11.jpg);--i-yj11:url(images/yj11.jpg);--i-yj12:url(images/yj12.jpg);--i-yj13:url(images/yj13.jpg);--i-irt1:url(images/irt1.jpg);--i-irt2:url(images/irt2.jpg);--i-irt3:url(images/irt3.jpg);--i-irt4:url(images/irt4.jpg);--i-irt5:url(images/irt5.jpg);--i-lt6:url(images/lt6.jpg);--i-lt7:url(images/lt7.jpg);--i-lt8:url(images/lt8.jpg);--i-lt9:url(images/lt9.jpg);--i-lt10:url(images/lt10.jpg);--i-lt11:url(images/lt11.jpg);--i-lt12:url(images/lt12.jpg);--i-le1:url(images/le1.jpg);--i-le2:url(images/le2.jpg);--i-le3:url(images/le3.jpg);--i-ol1:url(images/ol1.jpg);--i-ol2:url(images/ol2.jpg);--i-ol3:url(images/ol3.jpg);--i-ol4:url(images/ol4.jpg);--i-vp1:url(images/vp1.jpg);--i-vp2:url(images/vp2.jpg);--i-vp3:url(images/vp3.jpg);--i-vb1:url(images/vb1.jpg);--i-vb2:url(images/vb2.jpg);--i-vb3:url(images/vb3.jpg);--i-vb4:url(images/vb4.jpg);--i-vb5:url(images/vb5.jpg);--i-ss1:url(images/ss1.jpg);--i-ss2:url(images/ss2.jpg);--i-ss3:url(images/ss3.jpg);--i-ss4:url(images/ss4.jpg);--i-ss5:url(images/ss5.jpg);--i-sk1:url(images/sk1.jpg);--i-sk2:url(images/sk2.jpg);--i-sk3:url(images/sk3.jpg);--i-sk4:url(images/sk4.jpg);--i-md1:url(images/md1.jpg);--i-md2:url(images/md2.jpg);--i-md3:url(images/md3.jpg);--i-kv1:url(images/kv1.jpg);--i-kv2:url(images/kv2.jpg);--i-kv3:url(images/kv3.jpg);--i-kv4:url(images/kv4.jpg);--i-kv5:url(images/kv5.jpg);--i-kv6:url(images/kv6.jpg);--i-kr1:url(images/kr1.jpg);--i-kr2:url(images/kr2.jpg);--i-kr3:url(images/kr3.jpg);--i-kr4:url(images/kr4.jpg);--i-kr5:url(images/kr5.jpg);--i-kr6:url(images/kr6.jpg);--i-kr7:url(images/kr7.jpg);--i-kr8:url(images/kr8.jpg);--i-kr9:url(images/kr9.jpg);--i-kr10:url(images/kr10.jpg);--i-vr1:url(images/vr1.jpg);--i-vr2:url(images/vr2.jpg);--i-vr3:url(images/vr3.jpg);--i-vr4:url(images/vr4.jpg);--i-vr5:url(images/vr5.jpg);--i-vr6:url(images/vr6.jpg);--i-vr7:url(images/vr7.jpg);--i-vr8:url(images/vr8.jpg);--i-vr9:url(images/vr9.jpg);--i-vr10:url(images/vr10.jpg);--i-vr11:url(images/vr11.jpg);--i-vr12:url(images/vr12.jpg);--i-vr13:url(images/vr13.jpg);--i-vr14:url(images/vr14.jpg);--i-tm1:url(images/tm1.jpg);--i-tm2:url(images/tm2.jpg);--i-tm3:url(images/tm3.jpg);--i-tm4:url(images/tm4.jpg);--i-tm5:url(images/tm5.jpg);--i-ts1:url(images/ts1.jpg);--i-ts2:url(images/ts2.jpg);--i-ts3:url(images/ts3.jpg);--i-ts4:url(images/ts4.jpg);--i-ts5:url(images/ts5.jpg);--i-ts6:url(images/ts6.jpg);--i-ts7:url(images/ts7.jpg);--i-ts8:url(images/ts8.jpg);--i-tp1:url(images/tp1.jpg);--i-tp2:url(images/tp2.jpg);--i-tp3:url(images/tp3.jpg);--i-tp4:url(images/tp4.jpg);--i-an1:url(images/an1.jpg);--i-an2:url(images/an2.jpg);--i-an3:url(images/an3.jpg);--i-an4:url(images/an4.jpg);--i-an5:url(images/an5.jpg);--i-an6:url(images/an6.jpg);--i-an7:url(images/an7.jpg);--i-an8:url(images/an8.jpg);--i-an9:url(images/an9.jpg);--i-an10:url(images/an10.jpg);--i-an11:url(images/an11.jpg);--i-anv1:url(images/anv1.jpg);--i-anv2:url(images/anv2.jpg);--i-anv3:url(images/anv3.jpg);--i-cf1:url(images/cf1.jpg);--i-cf2:url(images/cf2.jpg);--i-cf3:url(images/cf3.jpg);--i-cf4:url(images/cf4.jpg);--i-cf5:url(images/cf5.jpg);--i-ov01:url(images/ov01.jpg);--i-ov02:url(images/ov02.jpg);--i-ov03:url(images/ov03.jpg);--i-ov04:url(images/ov04.jpg);--i-ov05:url(images/ov05.jpg);--i-ov06:url(images/ov06.jpg);--i-ov07:url(images/ov07.jpg);--i-ov08:url(images/ov08.jpg);--i-ov09:url(images/ov09.jpg);--i-ov10:url(images/ov10.jpg);--i-ov11:url(images/ov11.jpg);--i-ov12:url(images/ov12.jpg);--i-ov13:url(images/ov13.jpg);--i-ov14:url(images/ov14.jpg);--i-ov15:url(images/ov15.jpg);--i-ov16:url(images/ov16.jpg);--i-ov17:url(images/ov17.jpg);--i-ov18:url(images/ov18.jpg);--i-ov19:url(images/ov19.jpg);--i-ov20:url(images/ov20.jpg);--i-vc01:url(images/vc01.jpg);--i-vc02:url(images/vc02.jpg);--i-vc03:url(images/vc03.jpg);--i-vc04:url(images/vc04.jpg);--i-vc05:url(images/vc05.jpg);--i-vc06:url(images/vc06.jpg);--i-vc07:url(images/vc07.jpg);--i-vc08:url(images/vc08.jpg);--i-vc09:url(images/vc09.jpg);--i-vc10:url(images/vc10.jpg);--i-vc11:url(images/vc11.jpg);--i-vc12:url(images/vc12.jpg);--i-vc13:url(images/vc13.jpg);--i-vc14:url(images/vc14.jpg);--i-vc15:url(images/vc15.jpg);--i-vc16:url(images/vc16.jpg);--i-sv1:url(images/sv1.jpg);--i-sv2:url(images/sv2.jpg);--i-sv3:url(images/sv3.jpg);--i-sv4:url(images/sv4.jpg);--i-sv5:url(images/sv5.jpg);--i-sv6:url(images/sv6.jpg);--i-sv7:url(images/sv7.jpg);--i-sv8:url(images/sv8.jpg);--i-sv9:url(images/sv9.jpg);--i-sv10:url(images/sv10.jpg);--i-sv11:url(images/sv11.jpg);--i-sv12:url(images/sv12.jpg);--i-sv13:url(images/sv13.jpg);--i-sv14:url(images/sv14.jpg);--i-mh1:url(images/mh1.jpg);--i-mh2:url(images/mh2.jpg);--i-mh3:url(images/mh3.jpg);--i-mh4:url(images/mh4.jpg);--i-mh5:url(images/mh5.jpg);--i-mh6:url(images/mh6.jpg);--i-mh7:url(images/mh7.jpg);--i-mh8:url(images/mh8.jpg);--i-mh9:url(images/mh9.jpg);--i-mh10:url(images/mh10.jpg);--i-mh11:url(images/mh11.jpg);--i-mh12:url(images/mh12.jpg);--i-mh13:url(images/mh13.jpg);--i-mh14:url(images/mh14.jpg);--i-mh15:url(images/mh15.jpg);--i-mh16:url(images/mh16.jpg);--i-rs1:url(images/rs1.jpg);--i-rs2:url(images/rs2.jpg);--i-rs17:url(images/rs17.jpg);--i-rs18:url(images/rs18.jpg);--i-rs19:url(images/rs19.jpg);--i-rs20:url(images/rs20.jpg);--i-rs21:url(images/rs21.jpg);--i-rs5:url(images/rs5.jpg);--i-rs6:url(images/rs6.jpg);--i-rs7:url(images/rs7.jpg);--i-rs8:url(images/rs8.jpg);--i-rs9:url(images/rs9.jpg);--i-rs10:url(images/rs10.jpg);--i-rs11:url(images/rs11.jpg);--i-rs12:url(images/rs12.jpg);--i-rs13:url(images/rs13.jpg);--i-rs14:url(images/rs14.jpg);--i-rs15:url(images/rs15.jpg);--i-rs16:url(images/rs16.jpg);--i-ag1:url(images/ag1.jpg);--i-ag2:url(images/ag2.jpg);--i-ag3:url(images/ag3.jpg);--i-ag4:url(images/ag4.jpg);--i-ag5:url(images/ag5.jpg);--i-ag6:url(images/ag6.jpg);--i-ag7:url(images/ag7.jpg);--i-ag8:url(images/ag8.jpg);--i-ag9:url(images/ag9.jpg);--i-ag10:url(images/ag10.jpg);--i-ag11:url(images/ag11.jpg);--i-ag12:url(images/ag12.jpg);--i-ag13:url(images/ag13.jpg);--i-ag14:url(images/ag14.jpg);--i-ag15:url(images/ag15.jpg);--i-ag16:url(images/ag16.jpg);--i-ag17:url(images/ag17.jpg);--i-ag18:url(images/ag18.jpg);--i-ag19:url(images/ag19.jpg);--i-ag20:url(images/ag20.jpg);--i-ag21:url(images/ag21.jpg);--i-ag22:url(images/ag22.jpg);--i-ag23:url(images/ag23.jpg);--i-ag24:url(images/ag24.jpg);--i-ag25:url(images/ag25.jpg);--i-fab1:url(images/fab1.jpg);--i-fab2:url(images/fab2.jpg);--i-fab3:url(images/fab3.jpg);--i-fab4:url(images/fab4.jpg);--i-fab5:url(images/fab5.jpg);--i-fab6:url(images/fab6.jpg);--i-fab7:url(images/fab7.jpg);--i-fab8:url(images/fab8.jpg);--i-fab9:url(images/fab9.jpg);--i-fab10:url(images/fab10.jpg);--i-fab11:url(images/fab11.jpg);--i-fab12:url(images/fab12.jpg);--i-fab13:url(images/fab13.jpg);--i-fab14:url(images/fab14.jpg);--i-fab15:url(images/fab15.jpg);--i-fab16:url(images/fab16.jpg);--i-fab17:url(images/fab17.jpg);--i-fab18:url(images/fab18.jpg);--i-fab19:url(images/fab19.jpg);--i-fab20:url(images/fab20.jpg);--i-fab21:url(images/fab21.jpg);--i-fab22:url(images/fab22.jpg);--i-fab23:url(images/fab23.jpg);--i-fab24:url(images/fab24.jpg);--i-fab25:url(images/fab25.jpg);--i-fab26:url(images/fab26.jpg);--i-fab27:url(images/fab27.jpg);--i-fab28:url(images/fab28.jpg);--i-fab29:url(images/fab29.jpg);--i-fab30:url(images/fab30.jpg);--i-fab31:url(images/fab31.jpg);--i-fab32:url(images/fab32.jpg);--i-fab33:url(images/fab33.jpg);--i-fab34:url(images/fab34.jpg);--i-fab35:url(images/fab35.jpg);--i-fab36:url(images/fab36.jpg);--i-fab37:url(images/fab37.jpg);--i-fab38:url(images/fab38.jpg);--i-fab39:url(images/fab39.jpg);--i-fab40:url(images/fab40.jpg);--i-fab41:url(images/fab41.jpg);--i-fab42:url(images/fab42.jpg);--i-fab43:url(images/fab43.jpg);--i-fab44:url(images/fab44.jpg);--i-fab45:url(images/fab45.jpg);--i-fab46:url(images/fab46.jpg);--i-fab47:url(images/fab47.jpg);--i-fab48:url(images/fab48.jpg);--i-fab49:url(images/fab49.jpg);--i-fab50:url(images/fab50.jpg);--i-fab51:url(images/fab51.jpg);--i-fab52:url(images/fab52.jpg);--i-fab53:url(images/fab53.jpg);--i-fab54:url(images/fab54.jpg);--i-fab55:url(images/fab55.jpg);--i-fab56:url(images/fab56.jpg);--i-fab57:url(images/fab57.jpg);--i-fab58:url(images/fab58.jpg);--i-fab59:url(images/fab59.jpg);--i-fab60:url(images/fab60.jpg);--i-fab61:url(images/fab61.jpg);--i-fab62:url(images/fab62.jpg);--i-fab63:url(images/fab63.jpg);--i-fab64:url(images/fab64.jpg);--i-fab65:url(images/fab65.jpg);--i-fab66:url(images/fab66.jpg);--i-fab67:url(images/fab67.jpg);--i-fab68:url(images/fab68.jpg);--i-fab69:url(images/fab69.jpg);--i-fab70:url(images/fab70.jpg);--i-fab71:url(images/fab71.jpg);--i-fab72:url(images/fab72.jpg);--i-fab73:url(images/fab73.jpg);--i-fab74:url(images/fab74.jpg);--i-fab75:url(images/fab75.jpg);--i-fab76:url(images/fab76.jpg);--i-fab77:url(images/fab77.jpg);--i-fab78:url(images/fab78.jpg);--i-fab79:url(images/fab79.jpg);--i-fab80:url(images/fab80.jpg);--i-fab81:url(images/fab81.jpg);--i-fab82:url(images/fab82.jpg);--i-fab83:url(images/fab83.jpg);--i-fab84:url(images/fab84.jpg);--i-fab85:url(images/fab85.jpg);--i-fab86:url(images/fab86.jpg);--i-fab87:url(images/fab87.jpg);--i-fab88:url(images/fab88.jpg);--i-fab89:url(images/fab89.jpg);--i-fab90:url(images/fab90.jpg);--i-fab91:url(images/fab91.jpg);--i-fab92:url(images/fab92.jpg);--i-fab93:url(images/fab93.jpg);--i-fab94:url(images/fab94.jpg);--i-fab95:url(images/fab95.jpg);--i-fab96:url(images/fab96.jpg);--i-fab97:url(images/fab97.jpg);--i-fab98:url(images/fab98.jpg);--i-fab99:url(images/fab99.jpg);--i-fab100:url(images/fab100.jpg);--i-fab101:url(images/fab101.jpg);--i-fab102:url(images/fab102.jpg);--i-fab103:url(images/fab103.jpg);--i-fab104:url(images/fab104.jpg);--i-fab105:url(images/fab105.jpg);--i-fab106:url(images/fab106.jpg);--i-fab107:url(images/fab107.jpg);--i-fab108:url(images/fab108.jpg);--i-fab109:url(images/fab109.jpg);--i-fab110:url(images/fab110.jpg);--i-fab111:url(images/fab111.jpg);--i-fab112:url(images/fab112.jpg);--i-fab113:url(images/fab113.jpg);--i-fab114:url(images/fab114.jpg);--i-fab115:url(images/fab115.jpg);--i-ms1:url(images/ms1.jpg);--i-ms2:url(images/ms2.jpg);--i-ms3:url(images/ms3.jpg);--i-ms4:url(images/ms4.jpg);--i-ms5:url(images/ms5.jpg);--i-ms6:url(images/ms6.jpg);--i-ms7:url(images/ms7.jpg);--i-ms8:url(images/ms8.jpg);--i-ms9:url(images/ms9.jpg);--i-ms10:url(images/ms10.jpg);--i-ms11:url(images/ms11.jpg);--i-ms12:url(images/ms12.jpg);--i-ms13:url(images/ms13.jpg);--i-ms14:url(images/ms14.jpg);--i-ms15:url(images/ms15.jpg);--i-ms16:url(images/ms16.jpg);--i-ms17:url(images/ms17.jpg);--i-ms18:url(images/ms18.jpg);--i-ms19:url(images/ms19.jpg);--i-ms20:url(images/ms20.jpg);--i-ms21:url(images/ms21.jpg);--l-word:url(images/logo-word.png);--l-mono:url(images/logo-mono.png);}
 </style>
 </head>
 <body id="top">
@@ -1965,8 +1965,8 @@ footer{padding:clamp(40px,6vw,72px) clamp(16px,4vw,56px) 28px}
     mariapants:{title:"mariapants_h",fabric:["linen"],back:["#/mariaset","mariaset_h"],vh:"mariapantsv_h",imgs:[["mrp1","cover","50% 10%","mrpa1"]],variants:[["mrp2","mrpa2"],["mrp3","mrpa3"],["mrp4","mrpa4"],["mrp5","mrpa5"],["mrp6","mrpa6"]],colors:[["mrp1","mrpa1"],["mrp2","mrpa2"],["mrp3","mrpa3"],["mrp4","mrpa4"],["mrp5","mrpa5"],["mrp6","mrpa6"]],texts:["mariapants_t1","mariapants_t2"],price:2000000,predict:["ip_pl","mariapants_pt"]},
     mariaset:{title:"mariaset_h",fabric:["linen"],back:["#/eldest","n_e"],imgs:[["mrset1","cover","50% 6%","mra1"],["mrset2","","","mra2"]],texts:["mariaset_t1","mariaset_t2"],slots:[["cs_vest","mariavest"],["cs_pants","mariapants"]],comboName:"mariaset_h",predict:["mp_pl","mariaset_pt"]},
     toma:{title:"toma_h",fabric:["chiffon"],back:["#/eldest","n_e"],imgs:[["tm1","cover","50% 8%","tma1"],["tm2","","","tma2"],["tm3","","","tma3"],["tm4","","","tma4"],["tm5","","","tma5"]],texts:["toma_t1","toma_t2","toma_t3"],slots:[["cs_shirt","tomashirt"],["cs_pants","tomapants"]],comboName:"toma_combo_name",predict:["ip_pl","toma_pt"]},
-    tomashirt:{title:"toma_shirt_h",fabric:["chiffon"],back:["#/toma","toma_h"],vh:"toma_shirt_vh",imgs:[["ts2","cover","50% 8%","tsa2"],["ts1","","","tsa1"],["ts6","","","tsa6"],["ts4","","","tsa4"],["ts5","","","tsa5"]],variants:[["ts7","tsv1"],["ts4","tsv2"],["tm3","tsv3"],["ts3","tsv4"]],colors:[["ts7","tsv1"],["ts4","tsv2"],["tm3","tsv3"],["ts3","tsv4"]],texts:["toma_shirt_t1","toma_shirt_t2"],price:2500000,predict:["ip_pl","toma_shirt_pt"]},
-    tomapants:{title:"toma_pants_h",fabric:["chiffon"],back:["#/toma","toma_h"],vh:"toma_pants_vh",imgs:[["tm3","cover","50% 8%","tpa1"],["tp1","","","tpa2"],["tp2","","","tpa3"]],variants:[["tp1","tpv2"],["tp2","tpv3"],["tm4","tpv4"]],colors:[["tm3","tpv1"],["tp1","tpv2"],["tp2","tpv3"],["tm4","tpv4"]],texts:["toma_pants_t1","toma_pants_t2"],price:2500000,predict:["ip_pl","toma_pants_pt"]},
+    tomashirt:{title:"toma_shirt_h",fabric:["chiffon"],back:["#/toma","toma_h"],vh:"toma_shirt_vh",imgs:[["ts2","cover","50% 8%","tsa2"],["ts1","","","tsa1"],["ts6","","","tsa6"],["ts4","","","tsa4"],["ts5","","","tsa5"]],variants:[["ts7","tsv1"],["ts4","tsv2"],["ts8","tsv3"],["ts3","tsv4"]],colors:[["ts7","tsv1"],["ts4","tsv2"],["ts8","tsv3"],["ts3","tsv4"]],texts:["toma_shirt_t1","toma_shirt_t2"],price:2500000,predict:["ip_pl","toma_shirt_pt"]},
+    tomapants:{title:"toma_pants_h",fabric:["chiffon"],back:["#/toma","toma_h"],vh:"toma_pants_vh",imgs:[["tm3","cover","50% 8%","tpa1"],["tp1","","","tpa2"],["tp2","","","tpa3"]],variants:[["tp1","tpv2"],["tp2","tpv3"],["tp4","tpv4"]],colors:[["tp3","tpv1"],["tp1","tpv2"],["tp2","tpv3"],["tp4","tpv4"]],texts:["toma_pants_t1","toma_pants_t2"],price:2500000,predict:["ip_pl","toma_pants_pt"]},
     annushka:{title:"annushka_h",fabric:["cotton"],back:["#/middle","n_m"],imgs:[["an1","cover","50% 15%","ana1"],["an4","","","ana2"],["an2","","","ana3"],["an7","","","ana4"],["an6","","","ana5"],["an5","","","ana6"],["an3","","","ana7"],["an8","","","ana8"],["an10","","","ana10"],["an9","","","ana9"],["an11","","","ana11"]],vh:"annushka_vh",variants:[["anv1","anva1"],["anv2","anva2"],["anv3","anva3"]],texts:["annushka_t1","annushka_t2"],price:1800000,predict:["mp_pl","annushka_pt"]},
     johnny:{title:"johnny_h",fabric:["linen"],gender:"men",sizes:["XS-S","M-L","XL"],back:["#/johnnyset","johnnyset_h"],vh:"johnnyv_h",imgs:[["jo24","cover","50% 45%","joa24"],["jo1","","50% 10%","joa1"],["jo2","","50% 5%","joa2"],["jo6","","","joa6"],["jo7","","","joa7"],["jo8","","","joa8"],["jo25","cover","50% 40%","joa25"],["jo26","cover","50% 65%","joa26"],["jo27","cover","50% 40%","joa27"]],variants:[["jo6","joa6"],["jo9","joa9"],["jo10","joa10"],["jo11","joa11"],["jo12","joa12"]],colors:[["jo6","joa6"],["jo9","joa9"],["jo10","joa10"],["jo11","joa11"],["jo12","joa12"]],texts:["johnny_t1","johnny_t2"],price:2000000,predict:["ip_pl","johnny_pt"]},
     johnnypants:{title:"johnnypants_h",fabric:["cotton"],gender:"men",sizes:["XS-S","M-L","XL"],back:["#/johnnyset","johnnyset_h"],vh:"johnnypantsv_h",imgs:[["jo28","cover","50% 8%","joa28"],["jo21","","50% 8%","joa21"],["jo22","","50% 5%","joa22"],["jo23","","50% 5%","joa23"],["jo3","","50% 8%","joa3"],["jo4","","50% 8%","joa4"],["jo16","","","joa16"],["jo17","","","joa17"],["jo18","","","joa18"]],variants:[["jo16","joa16"],["jo13","joa13"],["jo14","joa14"],["jo15","joa15"],["jo19","joa19"],["jo29","joa29"]],colors:[["jo16","joa16"],["jo13","joa13"],["jo14","joa14"],["jo15","joa15"],["jo19","joa19"],["jo29","joa29"]],texts:["johnnypants_t1","johnnypants_t2"],price:2500000,predict:["ip_pl","johnnypants_pt"]},
